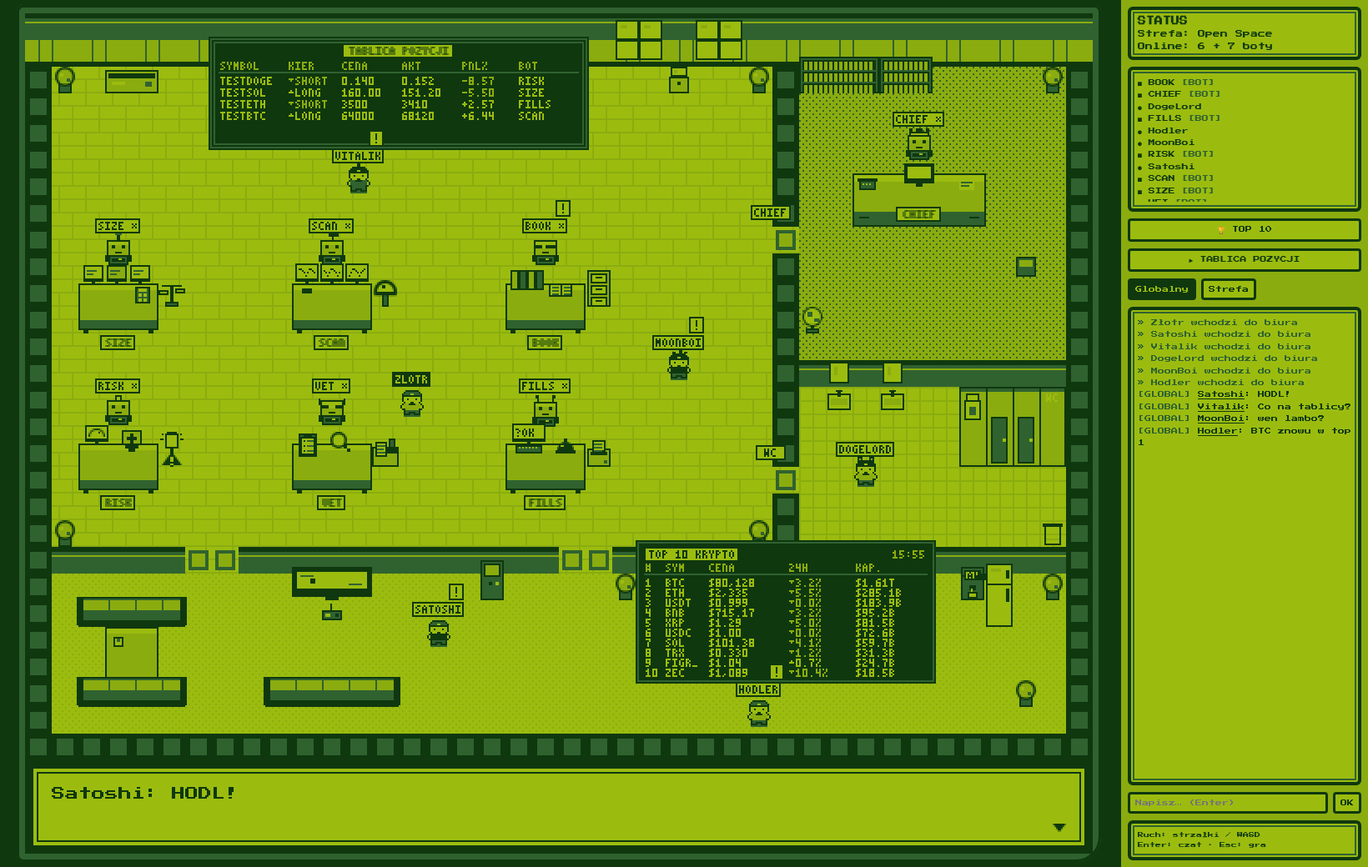
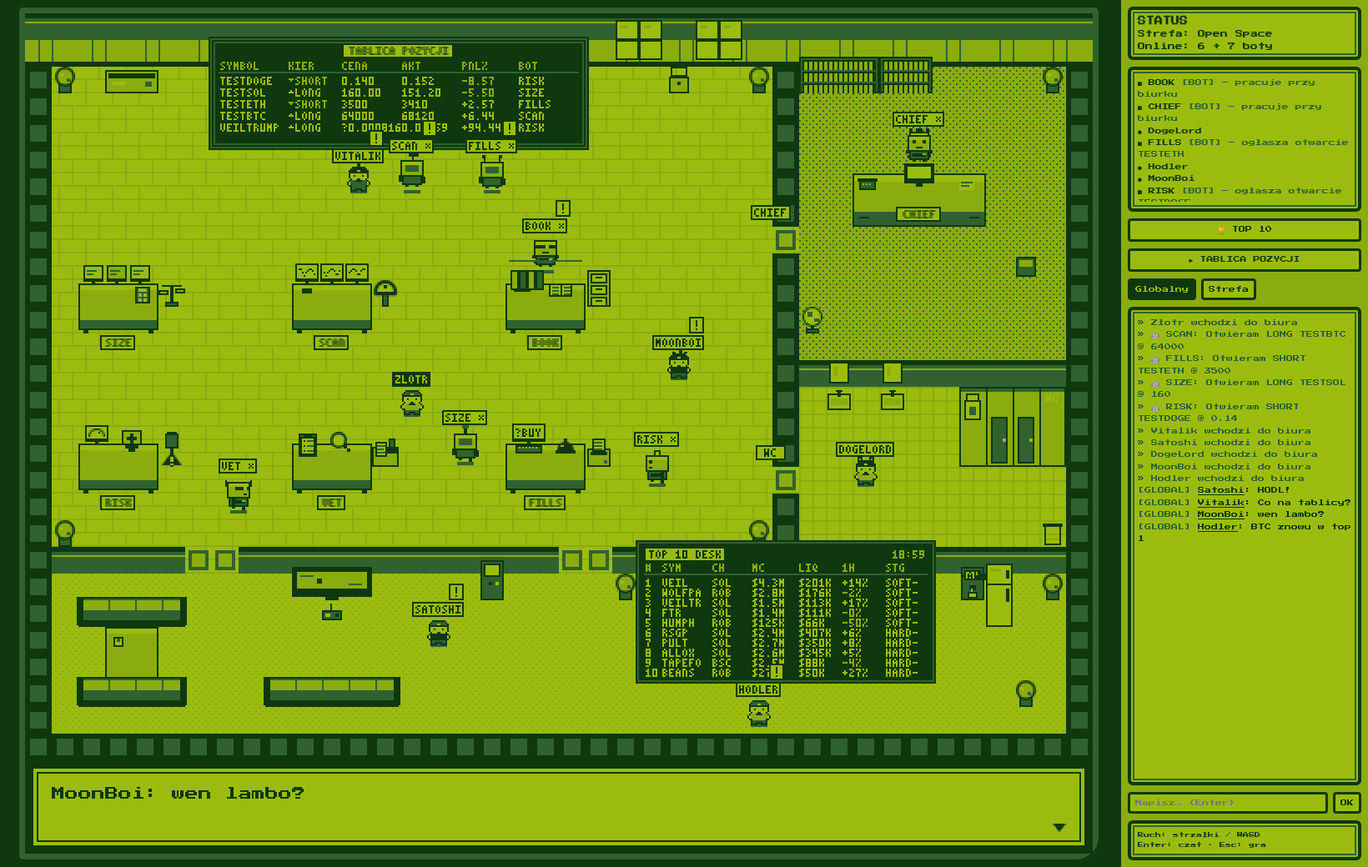
Boty pracują: maszyna stanów, A*, zadania, rozmowy, reakcje na pozycje; /api/bots

diff --git a/public/game.js b/public/game.js
@@ -35,19 +35,31 @@ function drawTrainer(g,x,y,dir,variant,sp,frame){const m=TR[dir]||TR.down;const 
 }
 // robots (8x8 grid at 2px)
 const BOTSHAPE={CHIEF:'crown',SIZE:'square',SCAN:'dish',BOOK:'visor',RISK:'siren',VET:'mono',FILLS:'twin'};
-function drawBot(x,y,p,t){const s=2,bob=Math.round(Math.sin(t/400+p.name.length));y+=bob;const px=(i,j,w,h,c)=>{ctx.fillStyle=C[c];ctx.fillRect(x+i*s,y+j*s,w*s,h*s);};const sh=BOTSHAPE[p.name]||'square';
- px(1,6,6,3,0);px(1.5,6.5,5,2,1);px(2,7,4,1,0);px(2+((t/200|0)%4),7,1,0.5,3); // body + blinking chest LED
- px(0,6,1,2,0);px(7,6,1,2,0);
+function drawBot(x,y,p,t){const s=2,dir=p.dir||'down',walking=p.act=='walk'&&(performance.now()-(p.lastMove||0)<250),typing=p.act=='typing'||p.act=='filing';
+ const bob=walking?((t/160|0)%2):Math.round(Math.sin(t/400+p.name.length));y+=bob;const px=(i,j,w,h,c)=>{ctx.fillStyle=C[c];ctx.fillRect(x+i*s,y+j*s,w*s,h*s);};const sh=BOTSHAPE[p.name]||'square';
+ // legs (walk cycle)
+ if(walking){const f=(t/160|0)%2;px(2,9,1,f?1:0.5,0);px(5,9,1,f?0.5:1,0);}else{px(2,9,1,0.5,0);px(5,9,1,0.5,0);}
+ px(1,6,6,3,0);px(1.5,6.5,5,2,1);
+ if(dir!='up'){px(2,7,4,1,0);px(2+((t/200|0)%4),7,1,0.5,3);}
+ // arms: typing (alternating hands forward) or swinging
+ if(typing){const f=(t/120|0)%2;px(0,6,1,1,0);px(7,6,1,1,0);px(0.5,7+f*0.5,1,1,0);px(6.5,7.5-f*0.5,1,1,0);}
+ else if(dir=='left'||dir=='right'){px(dir=='left'?5:2,6.5,1,2,0);}else{const f=walking&&(t/160|0)%2;px(0,6+(f?0.5:0),1,2,0);px(7,6+(f?0:0.5),1,2,0);}
  px(0.5,1.5,7,5,0);px(1,2,6,4,2);px(1,2,6,1,3); // head
  const blink=(t/150|0)%20==0;const ec=blink?2:0;
- if(sh=='visor'||sh=='mono'){px(1,3,6,1,0);if(sh=='mono')px(3,3,2,1,blink?0:3);else px(2+((t/300|0)%4),3,1,1,3);}else{px(2,3,1,1,ec);px(5,3,1,1,ec);}
- px(3,5,2,0.5,0);
+ if(dir=='up'){px(2,3,4,2,1);}
+ else if(dir=='left'||dir=='right'){const ex=dir=='left'?1.5:5.5;if(sh=='visor'||sh=='mono'){px(dir=='left'?1:3,3,4,1,0);px(ex,3,1,1,3);}else px(ex,3,1,1,ec);px(dir=='left'?1.5:5.5,5,1,0.5,0);}
+ else{if(sh=='visor'||sh=='mono'){px(1,3,6,1,0);if(sh=='mono')px(3,3,2,1,blink?0:3);else px(2+((t/300|0)%4),3,1,1,3);}else{px(2,3,1,1,ec);px(5,3,1,1,ec);}px(3,5,2,0.5,0);}
  if(sh=='crown'){px(1,0.5,6,1,0);px(1,-0.5,1,1,0);px(3,-0.5,2,1,0);px(6,-0.5,1,1,0);px(1.5,1,5,0.5,3);}
  if(sh=='square'){px(3.5,0,1,1.5,0);px(3,-1,2,1,1);}
  if(sh=='dish'){px(4,0.5,0.5,1,0);px(3,-0.5,3,1,0);px(5,-1.5,1,1,(t/300|0)%2?0:3);}
  if(sh=='siren'){px(3,0,2,1.5,0);px(3.5,0.5,1,1,(t/250|0)%2?3:1);}
  if(sh=='mono'){px(0,1,0.5,2,0);px(7.5,1,0.5,2,0);}
- if(sh=='twin'){px(1.5,0,0.5,1.5,0);px(6,0,0.5,1.5,0);px(1,-0.5,1,1,0);px(6,-0.5,1,1,0);}}
+ if(sh=='twin'){px(1.5,0,0.5,1.5,0);px(6,0,0.5,1.5,0);px(1,-0.5,1,1,0);px(6,-0.5,1,1,0);}
+ // carried item
+ const cx=dir=='left'?-3:13,cy=y+12;
+ if(p.carry=='ticket'){box(x+cx,cy,6,7,3);R(x+cx+1,cy+2,4,1,1);R(x+cx+1,cy+4,3,1,1);}
+ if(p.carry=='clip'){box(x+cx,cy-1,6,8,1);R(x+cx+1,cy+1,4,5,3);R(x+cx+2,cy-1,2,1,0);}
+ if(p.carry=='coffee'){box(x+cx,cy+1,5,6,3);R(x+cx+5,cy+3,1,2,0);if((t/300|0)%2)R(x+cx+2,cy-2,1,2,1);}}
 // ---- login UI ----
 const cd=document.getElementById('colors'),sd=document.getElementById('sprites');
 function preview(v,sp,sel){const c=document.createElement('canvas');c.width=20;c.height=22;c.style.width='40px';c.style.height='44px';const g=c.getContext('2d');g.fillStyle=C[3];g.fillRect(0,0,20,22);drawTrainer(g,2,4,'down',v,sp,0);if(sel)c.className='on';return c;}
@@ -65,6 +77,7 @@ const marks={};
 socket.on('init',d=>{me=d.you;players=d.players;for(const p of Object.values(players)){p.rx=p.x;p.ry=p.y;}updOnline();});
 socket.on('playerJoined',p=>{p.rx=p.x;p.ry=p.y;players[p.id]=p;updOnline();});
 socket.on('playerMoved',d=>{const p=players[d.id];if(p){Object.assign(p,d);p.lastMove=performance.now();}});
+socket.on('botState',d=>{const p=players[d.id];if(p){p.status=d.status;p.act=d.act;p.carry=d.carry;if(p.act=='walk')p.lastMove=performance.now();updOnline();}});
 socket.on('playerLeft',id=>{delete players[id];updOnline();});
 socket.on('correct',d=>{const p=players[me];if(p){p.x=p.rx=d.x;p.y=p.ry=d.y;}});
 socket.on('chat',m=>{const log=document.getElementById('log');const el=document.createElement('div');
@@ -73,7 +86,7 @@ socket.on('chat',m=>{const log=document.getElementById('log');const el=document.
  log.appendChild(el);log.scrollTop=1e9;});
 socket.on('bubble',d=>{const p=players[d.id];say(p?p.name:'BOT',d.text,d.id);marks[d.id]=Date.now()+4000;});
 function updOnline(){const ps=Object.values(players);document.getElementById('online').textContent='Online: '+ps.filter(p=>!p.bot).length+' + '+ps.filter(p=>p.bot).length+' boty';
- const pl=document.getElementById('plist');pl.innerHTML='';ps.sort((a,b)=>(a.bot-b.bot)||a.name.localeCompare(b.name)).forEach(p=>{const d=document.createElement('div');d.textContent=(p.bot?'■ ':'● ')+p.name+(p.id==me?' (ty)':'');if(p.bot){const t=document.createElement('span');t.className='b';t.textContent=' [BOT]';d.appendChild(t);}pl.appendChild(d);});}
+ const pl=document.getElementById('plist');pl.innerHTML='';ps.sort((a,b)=>(a.bot-b.bot)||a.name.localeCompare(b.name)).forEach(p=>{const d=document.createElement('div');d.textContent=(p.bot?'■ ':'● ')+p.name+(p.id==me?' (ty)':'');if(p.bot){const t=document.createElement('span');t.className='b';t.textContent=' [BOT]'+(p.status?' – '+p.status.replace(p.name+': ',''):'');d.appendChild(t);}pl.appendChild(d);});}
 const tg=document.getElementById('tg'),tz=document.getElementById('tz');
 tg.onclick=()=>{scope='global';tg.className='on';tz.className='';};tz.onclick=()=>{scope='zone';tz.className='on';tg.className='';};
 const msg=document.getElementById('msg');
@@ -159,7 +172,9 @@ function drawF(f,t){const X=f.x*T,Y=f.y*T,w=f.w*T,h=f.h*T;
  case 'coffee':box(X+1,Y-4,14,20,1);box(X+3,Y-2,10,6,3);tt('KAWA',X+1,Y-1);R(X+6,Y+7,4,3,0);box(X+5,Y+11,6,4,3);if((t/400|0)%2)R(X+7,Y+9,1,2,3);break;
  case 'fridge':box(X,Y-6,w,h+6,3);R(X+1,Y+6,w-2,1,0);R(X+12,Y-2,2,5,0);R(X+12,Y+9,2,8,0);R(X+3,Y-3,6,2,2);break;
  case 'arcadebox':box(X+1,Y-8,14,24,1);box(X+3,Y-6,10,8,0);R(X+4,Y-5,8,6,(t/300|0)%2?2:3);R(X+6,Y+5,2,2,0);R(X+10,Y+5,2,2,3);break;}}
-function deskDecor(L,X,Y,w,t){const mon=(mx,my,mw,mh,anim)=>{box(mx,my,mw,mh,0);R(mx+1,my+1,mw-2,mh-3,anim?2:3);R(mx+mw/2-1,my+mh,2,2,0);};
+function deskDecor(L,X,Y,w,t){const own=players['bot-'+L];if(own&&own.act=='typing'){R(X+2,Y-12,w-4,1,(t/90|0)%3?0:1);R(X+5,Y+6,((t/70|0)%10)+2,1,0);}
+ deskDecor2(L,X,Y,w,t);}
+function deskDecor2(L,X,Y,w,t){const mon=(mx,my,mw,mh,anim)=>{box(mx,my,mw,mh,0);R(mx+1,my+1,mw-2,mh-3,anim?2:3);R(mx+mw/2-1,my+mh,2,2,0);};
  switch(L){
  case 'SIZE':for(let i=0;i<3;i++){mon(X+3+i*14,Y-9,12,10,(t/700|0)%3==i);R(X+5+i*14,Y-6,6,1,1);R(X+5+i*14,Y-4,4,1,1);}box(X+34,Y+4,9,10,1);R(X+36,Y+5,5,2,3);for(let j=0;j<2;j++)for(let i=0;i<2;i++)R(X+36+i*3,Y+8+j*3,2,2,3);break;
  case 'SCAN':for(let i=0;i<3;i++){mon(X+2+i*15,Y-10,14,11,0);ctx.fillStyle=C[0];for(let k=0;k<10;k++)ctx.fillRect(X+4+i*15+k,Y-3-Math.round(Math.abs(Math.sin(k/2+t/500+i))*4),1,1);}R(X+6,Y+5,6,3,0);break;
@@ -175,27 +190,40 @@ function deskDecor(L,X,Y,w,t){const mon=(mx,my,mw,mh,anim)=>{box(mx,my,mw,mh,0);
   ctx.fillStyle=C[0];ctx.beginPath();ctx.arc(X+36,Y+6,5,Math.PI,0);ctx.fill();R(X+30,Y+6,12,2,0);R(X+35,Y-1,2,2,0);ctx.fillStyle=C[3];ctx.fillRect(X+33,Y+3,2,1);break;}}
 // ---- positions board ----
 function fmtP(v){v=+v;return v>=1000?v.toFixed(0):v>=1?v.toFixed(2):v.toPrecision(3);}
-function pnl(p){const c=p.price??p.entry;return (c-p.entry)/p.entry*100*(p.side=='LONG'?1:-1);}
+function pnl(p){const b=p.desk?p.pnlBase:p.entry;if(!b)return NaN;const c=p.price??b;return (c-b)/b*100*(p.side=='LONG'?1:-1);}
+const pctS=v=>isFinite(v)?(v>=0?'+':'')+v.toFixed(2):'-';
 function drawScoreboard(X,Y,w,h,t){box(X-2,Y-2,w+4,h+4,1);box(X,Y,w,h,0);R(X+1,Y+1,w-2,h-2,1);R(X+2,Y+2,w-4,h-4,0);
  const ttl='TABLICA POZYCJI';R(X+w/2-tw(ttl)/2-3,Y+3,tw(ttl)+6,7,3);tt(ttl,X+w/2-tw(ttl)/2,Y+4,0);
  const cols=[5,46,78,114,150,184];['SYMBOL','KIER','CENA','AKT','PNL%','BOT'].forEach((c,i)=>tt(c,X+cols[i],Y+13,2));R(X+4,Y+19,w-8,1,1);
  const ps=Object.values(positions);if(!ps.length){if((t/600|0)%2)tt('BRAK OTWARTYCH POZYCJI',X+w/2-tw('BRAK OTWARTYCH POZYCJI')/2,Y+36,3);return;}
  ps.sort((a,b)=>b.openedAt-a.openedAt).slice(0,6).forEach((p,i)=>{const yy=Y+22+i*7,pl=pnl(p);
-  [p.symbol.slice(0,10),(p.side=='LONG'?'▲':'▼')+p.side,fmtP(p.entry),fmtP(p.price??p.entry),(pl>=0?'+':'')+pl.toFixed(2),p.bot].forEach((v,j)=>tt(String(v),X+cols[j],yy,j==1&&p.side=='SHORT'||j==4&&pl<0?2:3));});
+  [p.symbol.slice(0,10),(p.side=='LONG'?'▲':'▼')+p.side,p.entry!=null?fmtP(p.entry):(p.ref!=null?'~'+fmtP(p.ref):'-'),p.price!=null?fmtP(p.price):'-',pctS(pl),p.bot].forEach((v,j)=>tt(String(v),X+cols[j],yy,j==1&&p.side=='SHORT'||j==4&&pl<0?2:3));});
  if(ps.length>6)tt('+'+(ps.length-6)+' WIECEJ',X+w-44,Y+h-7,2);}
 // ---- Top 10 Krypto ----
 let top10={items:[]};
 const fmtCap=v=>!isFinite(v)||v<=0?'-':v>=1e12?'$'+(v/1e12).toFixed(2)+'T':v>=1e9?'$'+(v/1e9).toFixed(1)+'B':'$'+(v/1e6).toFixed(0)+'M';
 const fmtUsd=v=>'$'+(v>=1000?Math.round(v).toLocaleString('en-US'):v>=1?v.toFixed(2):v.toPrecision(3));
 const hhmm=ts=>ts?new Date(ts).toLocaleTimeString('pl-PL',{hour:'2-digit',minute:'2-digit'}):'--:--';
-function drawTop10(X,Y,w,h,t){box(X-2,Y-2,w+4,h+4,1);box(X,Y,w,h,0);R(X+2,Y+2,w-4,h-4,0);
+function drawTop10(X,Y,w,h,t){if(top10.source=='desk')return drawDeskTop10(X,Y,w,h,t);box(X-2,Y-2,w+4,h+4,1);box(X,Y,w,h,0);R(X+2,Y+2,w-4,h-4,0);
  const ttl='TOP 10 KRYPTO';R(X+4,Y+3,tw(ttl)+4,7,3);tt(ttl,X+6,Y+4,0);tt(hhmm(top10.updatedAt),X+w-24,Y+4,2);
  const cols=[4,16,42,90,130];['#','SYM','CENA','24H','KAP.'].forEach((c,i)=>tt(c,X+cols[i],Y+12,2));R(X+3,Y+18,w-6,1,1);
  if(!top10.items.length){if((t/600|0)%2)tt('BRAK DANYCH',X+w/2-tw('BRAK DANYCH')/2,Y+40,3);return;}
  top10.items.slice(0,10).forEach((c,i)=>{const yy=Y+21+i*6,up=(c.change24h||0)>=0;
   [String(c.rank||i+1),c.symbol.slice(0,5),fmtUsd(c.price),(up?'▲':'▼')+Math.abs(c.change24h||0).toFixed(1)+'%',fmtCap(c.marketCap)].forEach((v,j)=>tt(v,X+cols[j],yy,j==3&&!up?2:3));});}
+const fmtK=v=>!isFinite(v)||v==null?'-':v>=1e6?'$'+(v/1e6).toFixed(1)+'M':'$'+(v/1e3).toFixed(0)+'K';
+const STG={order:'ORDER',order_blocked:'BLOCK',soft_pass:'SOFT+',soft_reject:'SOFT-',soft_missing:'SOFT?',hard_reject:'HARD-',not_enriched:'HARD~',cheap_reject:'CHEAP-'};
+function drawDeskTop10(X,Y,w,h,t){box(X-2,Y-2,w+4,h+4,1);box(X,Y,w,h,0);R(X+2,Y+2,w-4,h-4,0);
+ const ttl='TOP 10 DESK';R(X+4,Y+3,tw(ttl)+4,7,3);tt(ttl,X+6,Y+4,0);tt(hhmm(top10.updatedAt),X+w-24,Y+4,2);
+ const cols=[4,14,44,68,96,122,148];['#','SYM','CH','MC','LIQ','1H','STG'].forEach((c,i)=>tt(c,X+cols[i],Y+12,2));R(X+3,Y+18,w-6,1,1);
+ top10.items.slice(0,10).forEach((c,i)=>{const yy=Y+21+i*6,up=(c.change1h||0)>=0;
+  [String(c.rank),c.symbol.slice(0,6),String(c.chain).slice(0,3).toUpperCase(),fmtK(c.marketCap),fmtK(c.liquidity),c.change1h==null?'-':(up?'+':'')+c.change1h.toFixed(0)+'%',STG[c.stage]||c.stage].forEach((v,j)=>tt(v,X+cols[j],yy,j==5&&!up?2:3));});}
 const t10=document.getElementById('top10');
-function renderTop10(){document.getElementById('t10upd').textContent='ostatnia aktualizacja: '+(top10.updatedAt?new Date(top10.updatedAt).toLocaleString('pl-PL'):'—')+(top10.source?' ('+top10.source+')':'')+(top10.error&&top10.items.length?' · błąd odświeżania, pokazuję ostatnie dane':'');
+function renderTop10(){const hd=document.querySelector('#top10 thead tr'),ttl=document.querySelector('#top10 .bh span');
+ if(top10.source=='desk'){ttl.textContent='🏆 TOP 10 DESK (ostatni cykl)';hd.innerHTML='<th>#</th><th>Ticker</th><th>Chain</th><th>MC</th><th>Płynność</th><th>1h %</th><th>Etap / powód</th>';
+  document.getElementById('t10upd').textContent='cykl: '+new Date(top10.updatedAt).toLocaleString('pl-PL')+' · '+(top10.rule||'');const tb=document.getElementById('t10body');tb.innerHTML='';
+  for(const c of top10.items){const tr=document.createElement('tr');const up=(c.change1h||0)>=0;
+   [c.rank,c.symbol,c.chain,fmtK(c.marketCap),fmtK(c.liquidity),c.change1h==null?'-':(up?'▲ ':'▼ ')+Math.abs(c.change1h).toFixed(2)+'%',(STG[c.stage]||c.stage)+(c.reason?' · '+c.reason:'')].forEach((v,i)=>{const td=document.createElement('td');td.textContent=v;if(i==5&&c.change1h!=null)td.className=up?'pos':'neg';if(i==6)td.style.whiteSpace='normal';tr.appendChild(td);});tb.appendChild(tr);}return;}
+ ttl.textContent='🏆 TOP 10 KRYPTO';hd.innerHTML='<th>#</th><th>Symbol / nazwa</th><th>Cena USD</th><th>24h %</th><th>Kapitalizacja</th>';document.getElementById('t10upd').textContent='ostatnia aktualizacja: '+(top10.updatedAt?new Date(top10.updatedAt).toLocaleString('pl-PL'):'—')+(top10.source?' ('+top10.source+')':'')+(top10.error&&top10.items.length?' · błąd odświeżania, pokazuję ostatnie dane':'');
  const tb=document.getElementById('t10body');tb.innerHTML='';if(!top10.items.length){tb.innerHTML='<tr><td colspan="5" style="text-align:center">Brak danych</td></tr>';return;}
  for(const c of top10.items){const tr=document.createElement('tr');const up=(c.change24h||0)>=0;
   [c.rank,c.symbol+' · '+c.name,fmtUsd(c.price),(up?'▲ ':'▼ ')+Math.abs(c.change24h||0).toFixed(2)+'%',fmtCap(c.marketCap)].forEach((v,i)=>{const td=document.createElement('td');td.textContent=v;if(i==3)td.className=up?'pos':'neg';tr.appendChild(td);});tb.appendChild(tr);}}
@@ -209,13 +237,14 @@ const panel=document.getElementById('board');
 function renderTable(){const tb=document.getElementById('btbody');tb.innerHTML='';const ps=Object.values(positions).sort((a,b)=>b.openedAt-a.openedAt);
  if(!ps.length){tb.innerHTML='<tr><td colspan="8" style="text-align:center">Brak otwartych pozycji</td></tr>';return;}
  for(const p of ps){const tr=document.createElement('tr');const pl=pnl(p);tr.className=p.side=='LONG'?'long':'short';
-  [p.symbol,(p.side=='LONG'?'▲ ':'▼ ')+p.side,p.size,fmtP(p.entry),fmtP(p.price??p.entry)+(p.priceSource=='live'?' •':''),(pl>=0?'+':'')+pl.toFixed(2)+'%',p.bot,new Date(p.openedAt).toLocaleString('pl-PL',{hour:'2-digit',minute:'2-digit',day:'2-digit',month:'2-digit'})]
+  [p.symbol+(p.desk?' ('+p.chain+', shadow)':''),(p.side=='LONG'?'▲ ':'▼ ')+p.side,p.desk?'$'+p.size:p.size,p.entry!=null?fmtP(p.entry):(p.desk?'brak (ref '+(p.ref!=null?fmtP(p.ref):'-')+')':'-'),(p.price!=null?fmtP(p.price):'-')+(p.priceSource=='live'?' •':'')+(p.desk&&p.priceTs?' @'+new Date(p.priceTs).toLocaleTimeString('pl-PL',{hour:'2-digit',minute:'2-digit'}):''),pctS(pl)+'%'+(p.desk&&p.entry==null?' vs ref':''),p.desk?'RISK: '+(p.risk||''):p.bot,new Date(p.openedAt).toLocaleString('pl-PL',{hour:'2-digit',minute:'2-digit',day:'2-digit',month:'2-digit'})]
   .forEach((v,i)=>{const td=document.createElement('td');td.textContent=v;if(i==5)td.className=pl>=0?'pos':'neg';if(p.note&&i==0)td.title=p.note;tr.appendChild(td);});tb.appendChild(tr);}}
 document.getElementById('tb').onclick=()=>panel.classList.toggle('show');document.getElementById('bclose').onclick=()=>panel.classList.remove('show');
 // ---- players ----
 function drawPlayer(p,t){p.rx+=(p.x-p.rx)*.3;p.ry+=(p.y-p.ry)*.3;const x=Math.round(p.rx)-8,y=Math.round(p.ry)-12;
- if(p.bot){drawBot(x,y-6,p,t);}else{const moving=p.id==me?p.moving:(performance.now()-(p.lastMove||0)<200);R(x+3,y+14,10,2,1);drawTrainer(ctx,x,y,p.dir||'down',Math.max(0,COLORS.indexOf(p.color)),p.sprite|0,moving&&(t/160|0)%2);}
+ if(p.bot){R(x+3,y+14,10,2,1);drawBot(x,y-6,p,t);}else{const moving=p.id==me?p.moving:(performance.now()-(p.lastMove||0)<200);R(x+3,y+14,10,2,1);drawTrainer(ctx,x,y,p.dir||'down',Math.max(0,COLORS.indexOf(p.color)),p.sprite|0,moving&&(t/160|0)%2);}
  tag(p.name+(p.bot?' *':''),Math.round(p.rx),y-(p.bot?17:11),p.id==me);
+ if(p.bot&&p.status){const m=players[me];const near=(m&&Math.hypot(m.x-p.x,m.y-p.y)<36)||(mouse&&Math.abs(mouse.x-p.rx)<10&&Math.abs(mouse.y-(p.ry-4))<14);if(near)statusTags.push([p.status,Math.round(p.rx),y+20]);}
  if(marks[p.id]>Date.now()){const bx=Math.round(p.rx)+6,by=y-(p.bot?28:22);box(bx,by,9,10,3);R(bx+4,by+2,1,4,0);R(bx+4,by+7,1,1,0);}}
 function drawDialog(t){const Y=MAPH,h=cv.height-MAPH;R(0,Y,cv.width,h,0);box(4,Y+4,cv.width-8,h-8,3);R(7,Y+7,cv.width-14,h-14,0);R(8,Y+8,cv.width-16,h-16,3);
  ctx.font='8px "Press Start 2P"';ctx.fillStyle=C[0];
@@ -224,12 +253,15 @@ function drawDialog(t){const Y=MAPH,h=cv.height-MAPH;R(0,Y,cv.width,h,0);box(4,Y
  const full=dcur.who+': '+dcur.text;const n=Math.min(full.length,Math.floor((t-dcur.start)/30));if(n>=full.length&&!dcur.done)dcur.done=t;
  const s=full.slice(0,n);const per=74;ctx.fillText(s.slice(0,per),16,Y+24);if(s.length>per)ctx.fillText(s.slice(per,per*2),16,Y+40);
  if(dcur.done&&(t/400|0)%2){ctx.fillStyle=C[0];ctx.beginPath();ctx.moveTo(cv.width-24,Y+38);ctx.lineTo(cv.width-16,Y+38);ctx.lineTo(cv.width-20,Y+43);ctx.fill();}}
+let mouse=null,statusTags=[];
+cv.addEventListener('mousemove',e=>{const r=cv.getBoundingClientRect();mouse={x:(e.clientX-r.left)*cv.width/r.width,y:(e.clientY-r.top)*cv.height/r.height};});cv.addEventListener('mouseleave',()=>mouse=null);
 let last=performance.now();
 function loop(t){const dt=Math.min(.05,(t-last)/1000);last=t;update(dt);
  if(!mapCache&&document.fonts)buildMap();ctx.drawImage(mapCache,0,0);
  // draw furniture and players depth-sorted by bottom edge
  const items=furniture.map(f=>({y:(f.y+f.h)*T,f})).concat(Object.values(players).map(p=>({y:p.ry+4,p})));items.sort((a,b)=>a.y-b.y);
  for(const it of items){if(it.f)drawF(it.f,t);else drawPlayer(it.p,t);}
+ for(const [st,sx,sy] of statusTags)tag(st,Math.max(tw(st)/2+4,Math.min(cv.width-tw(st)/2-4,sx)),Math.min(sy,MAPH-10),true);statusTags=[];
  drawDialog(t);
  const p=players[me];if(p){const z=zoneAt(p.x,p.y);document.getElementById('zone').textContent='Strefa: '+ZN[z];if(z!=lastZone){if(z=='board')panel.classList.add('show');else if(lastZone=='board')panel.classList.remove('show');if(z=='top10')t10.classList.add('show');else if(lastZone=='top10')t10.classList.remove('show');lastZone=z;}}
  requestAnimationFrame(loop);}

diff --git a/bots.js b/bots.js
@@ -1,0 +1,85 @@
+// Server-driven NPC bot behaviour: state machine + A* on the tile grid.
+module.exports=function createBots({io,players,MAP,BOT_CFG}){
+const FAST=process.env.BOT_FAST==='1',SP=FAST?4:1;
+const T=MAP.T,ms=v=>v/SP,rnd=a=>a[Math.random()*a.length|0],chance=p=>Math.random()<p;
+const walk=(x,y)=>y>=0&&x>=0&&y<MAP.H&&x<MAP.W&&MAP.solid[y][x]===0;
+function astar(s,g,avoid){if(!walk(...g))return null;const K=(x,y)=>y*MAP.W+x,open=[[...s,0,Math.abs(s[0]-g[0])+Math.abs(s[1]-g[1])]],gs=new Map([[K(...s),0]]),prev=new Map(),closed=new Set();
+ while(open.length){let bi=0;for(let i=1;i<open.length;i++)if(open[i][3]<open[bi][3])bi=i;const [x,y,gc]=open.splice(bi,1)[0];const k=K(x,y);if(closed.has(k))continue;closed.add(k);
+  if(x==g[0]&&y==g[1]){const out=[];let c=k;while(c!==undefined){out.unshift([c%MAP.W,c/MAP.W|0]);c=prev.get(c);}out.shift();return out;}
+  for(const [dx,dy] of [[1,0],[-1,0],[0,1],[0,-1]]){const nx=x+dx,ny=y+dy,nk=K(nx,ny);if(!walk(nx,ny)||closed.has(nk)||(avoid&&avoid.has(nk)&&!(nx==g[0]&&ny==g[1])))continue;
+   const ng=gc+1;if(ng<(gs.get(nk)??1e9)){gs.set(nk,ng);prev.set(nk,k);open.push([nx,ny,ng,ng+Math.abs(nx-g[0])+Math.abs(ny-g[1])]);}}}return null;}
+const deskOf=n=>MAP.furniture.find(f=>f.type=='botdesk'&&f.label==n);
+const deskFront=n=>{const d=deskOf(n);return [d.x+1,d.y+2];};
+const SPOT={board:()=>[9+(Math.random()*10|0),6],top10:()=>[24+(Math.random()*9|0),25],cabinet:()=>[22,10],chief:()=>[32+(Math.random()*3|0),8],
+ coffee:()=>[35,22],fridge:()=>[36,23],wc:()=>[36,17],walk:()=>rnd([[13,13],[8,13],[22,13],[16,18],[24,8]])};
+const CHATS=[[[14,23],[16,23]],[[16,13],[18,13]],[[30,26],[32,26]],[[4,18],[6,18]]];
+const LINES={
+ CHIEF:{chat:['Jak wyniki?','Trzymamy dyscyplinę.','Dobra robota.','Plan na dziś aktualny.'],report:['Dzięki, notuję.','OK, działaj dalej.','Pilnuj limitów.'],walk:['Jak idzie, zespole?','Obchód biura...']},
+ SIZE:{chat:['Max 2% na pozycję.','Kelly mówi: mniej.','Przeliczyłem wielkości.'],report:['Wielkości przeliczone.','Ekspozycja w normie.'],board:['Przeliczam wielkości...','Sizing się zgadza.']},
+ SCAN:{chat:['Wolumen rośnie!','Mam nowy sygnał.','Rynek się budzi.'],report:['3 nowe setupy.','Skan zakończony.'],board:['Sygnały zgodne z tablicą.','Sprawdzam pozycje...'],top10:['Top 10 bez zmian.','BTC dalej lider.']},
+ BOOK:{chat:['Wszystko zaksięgowane.','Saldo się zgadza.','PnL zapisany.'],report:['Księgi aktualne.','Raport dzienny gotowy.'],file:['Zarchiwizowane.','Segregator pełny!'],recv:['Przyjąłem, księguję.','Dzięki, wpisuję.']},
+ RISK:{chat:['Uwaga na dźwignię.','Stop-lossy ustawione?','Ryzyko pod kontrolą.'],report:['Ekspozycja OK.','Limity zachowane.'],inspect:['Limity OK.','Za duża dźwignia!','Stop-loss jest. OK.','Wszystko w normie.']},
+ VET:{chat:['Ten projekt to scam.','Audyt czysty.','Sprawdzam zespół.'],report:['Projekt zweryfikowany.','Dwie czerwone flagi.'],inspect:['Checklista OK ✔','Brakuje podpisu.','Zweryfikowane.']},
+ FILLS:{chat:['Fill bez slippage.','Zlecenia poszły.','Egzekucja OK.'],report:['Wszystkie fille gotowe.','Zero odrzuceń.'],ticket:['Nowe fille do zaksięgowania!','Bilety z egzekucji!']}};
+const B={};
+for(const d of MAP.BOT_DESKS){const p=players['bot-'+d.name];const home=[Math.floor(d.x/T),Math.floor(d.y/T)];
+ Object.assign(p,{x:home[0]*T+8,y:home[1]*T+8,dir:d.name=='CHIEF'?'down':'down',status:d.name+': pracuje przy biurku',act:'typing',carry:null});
+ B[d.name]={name:d.name,p,home,plan:[],path:[],step:null,waitUntil:0,blockedSince:0,idleSince:Date.now()-Math.random()*20000,event:false};}
+const tileOf=b=>[Math.floor(b.p.x/T),Math.floor(b.p.y/T)];
+const atHome=b=>{const [x,y]=tileOf(b);return x==b.home[0]&&y==b.home[1]&&!b.path.length;};
+const away=()=>Object.values(B).filter(b=>b.plan.length||b.step||!atHome(b)).length;
+function setState(b,o){let ch=false;for(const k in o)if(b.p[k]!==o[k]){b.p[k]=o[k];ch=true;}if(ch)io.emit('botState',{id:b.p.id,status:b.p.status,act:b.p.act,carry:b.p.carry});}
+function say(b,text){io.emit('bubble',{id:b.p.id,text});}
+function emitMove(b){b.p.zone=MAP.zoneAt(b.p.x,b.p.y);io.emit('playerMoved',{id:b.p.id,x:Math.round(b.p.x*10)/10,y:Math.round(b.p.y*10)/10,dir:b.p.dir,zone:b.p.zone});}
+// plan helpers
+const go=(spot,status,o={})=>({go:spot,status,...o}),wait=(t,o={})=>({wait:t,...o}),home=()=>({go:'home'});
+function start(b,plan){b.plan=plan.concat([home()]);b.step=null;b.idleSince=Date.now();}
+function errand(b){const n=b.name,L=LINES[n],others=Object.keys(B).filter(k=>k!=n&&k!='CHIEF');const r=Math.random();
+ if(n=='CHIEF'){if(r<.6)return start(b,[go(SPOT.walk(),'CHIEF: obchód Open Space'),wait(3000,{face:'down',say:rnd(L.walk)}),go(SPOT.walk(),'CHIEF: obchód Open Space'),wait(2000,{face:'up'})]);
+  return start(b,[go(SPOT.coffee(),'CHIEF: przerwa na kawę'),wait(4000,{face:'up',act:'coffee',carry:'coffee'})]);}
+ if(r<.12)return start(b,[go(SPOT.coffee(),n+': przerwa na kawę'),wait(3500,{face:'up',act:'coffee'}),wait(1500,{carry:'coffee',say:'Kawa ☕'})]);
+ if(r<.20)return start(b,[go(SPOT.wc(),n+': wyszedł do łazienki'),wait(5000,{face:'up',act:'wc'})]);
+ if(r<.32)return start(b,[go(SPOT.chief(),n+': raportuje do CHIEF'),wait(2500,{face:'up',say:rnd(L.report)}),wait(2500,{sayOther:['CHIEF',rnd(LINES.CHIEF.report)]})]);
+ if(r<.42){const partner=Object.values(B).find(o=>o!=b&&o.name!='CHIEF'&&!o.plan.length&&!o.step&&atHome(o)&&Date.now()-o.idleSince>ms(8000));if(partner&&away()<2)return chat(b,partner);}
+ switch(n){
+  case 'SCAN':return chance(.5)?start(b,[go(SPOT.board(),'SCAN: sprawdza Tablicę Pozycji'),wait(3000,{face:'up',say:rnd(L.board)})]):start(b,[go(SPOT.top10(),'SCAN: sprawdza Top 10 Krypto'),wait(3000,{face:'up',say:rnd(L.top10)})]);
+  case 'SIZE':return start(b,[go(SPOT.board(),'SIZE: przelicza wielkości przy tablicy'),wait(3500,{face:'up',say:rnd(L.board)})]);
+  case 'RISK':{const [a,c]=[rnd(others),rnd(others)];return start(b,[go(deskFront(a),'RISK: sprawdza biurko '+a),wait(2500,{face:'up',say:rnd(L.inspect)}),...(c!=a?[go(deskFront(c),'RISK: sprawdza biurko '+c),wait(2500,{face:'up',say:rnd(L.inspect)})]:[])]);}
+  case 'VET':{const a=rnd(others);return start(b,[go(deskFront(a),'VET: weryfikuje biurko '+a,{carry:'clip'}),wait(3000,{face:'up',say:rnd(L.inspect),carry:'clip'})]);}
+  case 'FILLS':return start(b,[go(deskFront('BOOK'),'FILLS: niesie bilety do BOOK',{carry:'ticket'}),wait(2000,{face:'up',say:rnd(L.ticket),carry:'ticket'}),wait(2000,{carry:null,sayOther:['BOOK',rnd(LINES.BOOK.recv)]})]);
+  case 'BOOK':return start(b,[go(SPOT.cabinet(),'BOOK: odkłada dokumenty do szafy',{carry:'ticket'}),wait(3500,{face:'left',act:'filing',carry:null,say:rnd(L.file)})]);}}
+function chat(a,b){const [sa,sb]=rnd(CHATS);const c={arrived:new Set(),lines:[]};for(let i=0;i<4;i++){const w=i%2?b:a;c.lines.push([w,rnd(LINES[w.name].chat)]);}
+ const stA=`${a.name}: rozmawia z ${b.name}`,stB=`${b.name}: rozmawia z ${a.name}`;
+ start(a,[go(sa,stA),{sync:c,face:'right',status:stA},wait(4*2500+500,{face:'right',dialog:c})]);start(b,[go(sb,stB),{sync:c,face:'left',status:stB},wait(4*2500+500,{face:'left'})]);}
+function onPosition(kind,pos){const b=B[pos.bot];if(!b)return;const txt=kind=='open'?`Na tablicy: ${pos.side} ${pos.symbol}!`:`Zamknięte: ${pos.symbol}.`;
+ b.event=true;start(b,[go(SPOT.board(),`${b.name}: ogłasza ${kind=='open'?'otwarcie':'zamknięcie'} ${pos.symbol}`),wait(3000,{face:'up',say:txt})]);
+ const r=B.RISK;if(r&&r!==b){say(r,kind=='open'?`Sprawdzam ekspozycję: ${pos.symbol}`:`Ryzyko ${pos.symbol} zdjęte.`);
+  if(!r.plan.length&&away()<3){r.event=true;start(r,[go(SPOT.board(),`RISK: sprawdza ryzyko ${pos.symbol}`),wait(2500,{face:'up',say:'Limity OK po zmianie.'})]);}}}
+// tick
+const occ=b=>Object.values(B).filter(o=>o!==b).flatMap(o=>{const t=[tileOf(o)];if(o.path[0])t.push(o.path[0]);return t;});
+function tick(dt){const now=Date.now();for(const b of Object.values(B)){
+ if(!b.step&&b.plan.length){b.step=b.plan.shift();const s=b.step;
+  if(s.go){const tgt=s.go=='home'?b.home:s.go;b.path=astar(tileOf(b),tgt)||[];b.target=tgt;setState(b,{status:s.go=='home'?b.name+': wraca do biurka':s.status,act:'walk',carry:s.carry??(s.go=='home'?(b.p.carry=='coffee'?'coffee':null):b.p.carry)});}
+  else if(s.wait!=null){b.waitUntil=now+ms(s.wait);if(s.face)b.p.dir=s.face;emitMove(b);setState(b,{act:s.act||'idle',carry:s.carry!==undefined?s.carry:b.p.carry,...(s.status?{status:s.status}:{})});
+   if(s.say)say(b,s.say);if(s.sayOther&&B[s.sayOther[0]])say(B[s.sayOther[0]],s.sayOther[1]);
+   if(s.dialog)s.dialog.lines.forEach(([w,l],i)=>setTimeout(()=>say(w,l),ms(i*2500)));}
+  else if(s.sync){s.sync.arrived.add(b.name);b.syncStart=now;if(s.face)b.p.dir=s.face;emitMove(b);setState(b,{act:'idle'});}}
+ const s=b.step;if(!s)continue;
+ if(s.go){if(!b.path.length){b.step=null;if(s.go=='home'){b.p.dir='down';emitMove(b);b.event=false;b.idleSince=now;setState(b,{status:b.name+': pracuje przy biurku',act:'typing',carry:null});}continue;}
+  const [nx,ny]=b.path[0],tx=nx*T+8,ty=ny*T+8;const [cx,cy]=tileOf(b);
+  if((nx!=cx||ny!=cy)&&occ(b).some(([ox,oy])=>ox==nx&&oy==ny)){if(!b.blockedSince)b.blockedSince=now;const w=now-b.blockedSince;
+   if(w>ms(1200)&&!b.repathed){b.repathed=true;const av=new Set(occ(b).map(([x,y])=>y*MAP.W+x));const np=astar([cx,cy],b.target,av);if(np&&np.length)b.path=np;continue;}
+   if(w<ms(4000))continue;}
+  b.repathed=false;
+  b.blockedSince=0;const v=48*SP*dt;const dx=tx-b.p.x,dy=ty-b.p.y,d=Math.hypot(dx,dy);
+  b.p.dir=Math.abs(dx)>Math.abs(dy)?(dx<0?'left':'right'):(dy<0?'up':'down');
+  if(d<=v){b.p.x=tx;b.p.y=ty;b.path.shift();}else{b.p.x+=dx/d*v;b.p.y+=dy/d*v;}emitMove(b);}
+ else if(s.wait!=null){if(now>=b.waitUntil)b.step=null;}
+ else if(s.sync){if(s.sync.arrived.size>=2||now-b.syncStart>ms(20000))b.step=null;}}}
+let last=Date.now();setInterval(()=>{const n=Date.now();tick(Math.min(.3,(n-last)/1000));last=n;},100);
+// scheduler
+setInterval(()=>{const idle=Object.values(B).filter(b=>!b.plan.length&&!b.step&&atHome(b)&&Date.now()-b.idleSince>ms(15000));
+ if(!idle.length||away()>=2||!chance(FAST?.8:.35))return;errand(rnd(idle));},ms(3000));
+// desk chatter: thinking bubbles / role lines for bots at desks
+setInterval(()=>{const at=Object.values(B).filter(b=>atHome(b)&&!b.step);if(!at.length)return;const b=rnd(at);say(b,chance(.4)?'...':rnd(BOT_CFG[b.name].lines));},ms(6000));
+return {onPosition,list:()=>Object.values(B).map(b=>({name:b.name,x:b.p.x,y:b.p.y,tile:tileOf(b),home:b.home,atDesk:atHome(b)&&!b.step&&!b.plan.length,status:b.p.status,act:b.p.act,carry:b.p.carry,zone:MAP.zoneAt(b.p.x,b.p.y)})),walk,errandFor:n=>errand(B[n])};};

diff --git a/server.js b/server.js
@@ -15,7 +15,6 @@ const BOT_CFG={CHIEF:{color:'#ff3b3b',lines:['Koordynuję zespół...','Odprawa 
  VET:{color:'#b026ff',lines:['Weryfikuję projekt...','Audyt kontraktu...','To wygląda na scam 🚩','Zespół zweryfikowany.']},
  FILLS:{color:'#ff2bd6',lines:['Realizuję zlecenia...','Fill po 68 012 $','Slippage minimalny.','Zlecenie wypełnione ✔']}};
 for(const b of MAP.BOT_DESKS){const c=BOT_CFG[b.name];players['bot-'+b.name]={id:'bot-'+b.name,name:b.name,color:c.color,sprite:0,bot:true,x:b.x,y:b.y,dir:'down',zone:MAP.zoneAt(b.x,b.y)};}
-setInterval(()=>{const ids=Object.keys(BOT_CFG);const n=ids[Math.random()*ids.length|0];const l=BOT_CFG[n].lines;io.emit('bubble',{id:'bot-'+n,text:l[Math.random()*l.length|0]});},4000);
 // ---- Tablica Pozycji: API dla botów ----
 const fs=require('fs'),crypto=require('crypto');
 const POS_FILE=process.env.POSITIONS_FILE||path.join(__dirname,'positions.json'),TOKEN_FILE=path.join(__dirname,'.bot-token');
@@ -26,12 +25,14 @@ if(!BOT_TOKEN){try{BOT_TOKEN=fs.readFileSync(TOKEN_FILE,'utf8').trim();}catch{}
 let positions={};try{positions=JSON.parse(fs.readFileSync(POS_FILE,'utf8'))||{};}catch{}
 const save=()=>{try{fs.writeFileSync(POS_FILE+'.tmp',JSON.stringify(positions,null,1));fs.renameSync(POS_FILE+'.tmp',POS_FILE);}catch(e){console.error('Zapis positions.json nieudany:',e.message);}};
 const BOT_NAMES=Object.keys(BOT_CFG);
+const bots=require('./bots.js')({io,players,MAP,BOT_CFG});
+app.get('/api/bots',(q,r)=>r.json(bots.list()));
 function auth(q,r,n){const h=q.get('authorization')||'';const t=h.startsWith('Bearer ')?h.slice(7):'';
   const a=Buffer.from(t),b=Buffer.from(BOT_TOKEN);if(a.length!==b.length||!crypto.timingSafeEqual(a,b))return r.status(401).json({error:'Brak autoryzacji'});n();}
 const num=v=>typeof v==='number'?v:(typeof v==='string'&&v.trim()!==''?Number(v):NaN);
 const pos=v=>{const x=num(v);return isFinite(x)&&x>0&&x<1e12?x:null;};
 function botSay(bot,text){io.emit('bubble',{id:'bot-'+bot,text});io.emit('chat',{system:true,text:`🤖 ${bot}: ${text}`,scope:'global',ts:Date.now()});}
-app.get('/api/positions',(q,r)=>r.json(Object.values(positions)));
+app.get('/api/positions',(q,r)=>r.json(allPositions()));
 app.post('/api/positions',auth,(q,r)=>{const b=q.body||{};const e=[];
   const bot=String(b.bot||'').toUpperCase();if(!BOT_NAMES.includes(bot))e.push('bot: jeden z '+BOT_NAMES.join(','));
   const symbol=String(b.symbol||'').toUpperCase();if(!/^[A-Z0-9]{2,20}$/.test(symbol))e.push('symbol: 2-20 znaków A-Z0-9');
@@ -43,14 +44,14 @@ app.post('/api/positions',auth,(q,r)=>{const b=q.body||{};const e=[];
   const id=b.id!=null?String(b.id):crypto.randomBytes(6).toString('hex');const old=positions[id];
   const p={id,bot,symbol,side,size,entry,price:price??old?.price??null,priceSource:price!=null?'bot':(old?.priceSource||null),note:b.note?String(b.note).replace(/[<>]/g,'').slice(0,140):(old?.note||''),openedAt:old?.openedAt||Date.now(),updatedAt:Date.now()};
   positions[id]=p;save();io.emit('position',p);
-  if(!old)botSay(bot,`Otwieram ${side} ${symbol} @ ${entry}`);r.status(old?200:201).json(p);});
+  if(!old){botSay(bot,`Otwieram ${side} ${symbol} @ ${entry}`);bots.onPosition('open',p);}r.status(old?200:201).json(p);});
 app.patch('/api/positions/:id',auth,(q,r)=>{const p=positions[q.params.id];if(!p)return r.status(404).json({error:'Nie znaleziono pozycji'});const b=q.body||{};const e=[];
   if(b.price!=null&&pos(b.price)==null)e.push('price: liczba > 0');if(b.size!=null&&pos(b.size)==null)e.push('size: liczba > 0');
   if(b.price==null&&b.size==null&&b.note==null)e.push('podaj price, size lub note');if(e.length)return r.status(400).json({error:'Błędne dane',details:e});
   if(b.price!=null){p.price=pos(b.price);p.priceSource='bot';}if(b.size!=null)p.size=pos(b.size);if(b.note!=null)p.note=String(b.note).replace(/[<>]/g,'').slice(0,140);
   p.updatedAt=Date.now();save();io.emit('position',p);r.json(p);});
 function close(q,r){const p=positions[q.params.id];if(!p)return r.status(404).json({error:'Nie znaleziono pozycji'});delete positions[p.id];save();io.emit('positionClosed',p.id);
-  const c=p.price??p.entry,pl=(c-p.entry)/p.entry*100*(p.side==='LONG'?1:-1);botSay(p.bot,`Zamykam ${p.side} ${p.symbol} (${pl>=0?'+':''}${pl.toFixed(2)}%)`);r.json({closed:true,position:p,pnlPct:+pl.toFixed(4)});}
+  const c=p.price??p.entry,pl=(c-p.entry)/p.entry*100*(p.side==='LONG'?1:-1);botSay(p.bot,`Zamykam ${p.side} ${p.symbol} (${pl>=0?'+':''}${pl.toFixed(2)}%)`);bots.onPosition('close',p);r.json({closed:true,position:p,pnlPct:+pl.toFixed(4)});}
 app.delete('/api/positions/:id',auth,close);app.post('/api/positions/:id/close',auth,close);
 // live prices from Binance public ticker (every 30s); falls back to bot price
 async function refreshPrices(){const ps=Object.values(positions);if(!ps.length||process.env.LIVE_PRICES==='0')return;
@@ -73,13 +74,28 @@ const SOURCES=[
 async function refreshTop10(){if(process.env.TOP10_MOCK==='1'){top10={updatedAt:Date.now(),source:'mock',items:MOCK10};io.emit('top10',top10);return top10;}
   if(Date.now()<top10Backoff)return top10;const errs=[];
   for(const [name,fn] of SOURCES){try{const items=(await fn()).filter(i=>i.symbol&&isFinite(i.price)&&i.price>0).slice(0,10);if(items.length<5)throw new Error('za mało danych');
-    top10={updatedAt:Date.now(),source:name,items};io.emit('top10',top10);return top10;}catch(e){errs.push(name+': '+e.message);if(e.status===429&&name==='CoinGecko')console.log('CoinGecko 429 - używam zapasowego źródła');}}
+    top10={updatedAt:Date.now(),source:name,items};if(!deskTop10())io.emit('top10',top10);return top10;}catch(e){errs.push(name+': '+e.message);if(e.status===429&&name==='CoinGecko')console.log('CoinGecko 429 - używam zapasowego źródła');}}
   top10={...top10,error:'Nie udało się pobrać danych ('+errs.join('; ')+')'};top10Backoff=Date.now()+60000;console.log('Top10:',top10.error);io.emit('top10',top10);return top10;}
 setInterval(refreshTop10,TOP10_MS);setTimeout(refreshTop10,process.env.TOP10_MOCK==='1'?0:1500);
-app.get('/api/top10',(q,r)=>r.json(top10));
+// ---- Desk feed: /workspace/desk/board.json written by desk main.py (state.json + ledger) ----
+const DESK_BOARD=process.env.DESK_BOARD_FILE||'/workspace/desk/board.json';let desk=null,deskMtime=0;
+function deskPosition(){const p=desk&&desk.position;if(!p)return null;const hb=p.latest_heartbeat||{};const ref=p.entry_priceUSD??p.reference_priceUSD??null;
+  return {id:'desk-'+String(p.order_id).replace(/[^A-Za-z0-9_-]/g,''),desk:true,bot:'RISK',symbol:String(p.token),side:'LONG',size:p.ticket_usd,sizeUsd:p.ticket_usd,
+    entry:p.entry_priceUSD,ref:p.reference_priceUSD,refSource:p.reference_source,price:hb.priceUSD??null,priceTs:hb.ts||null,priceSource:'desk-heartbeat',
+    pnlBase:ref,movePct:p.move_vs_ref_pct,chain:p.chain,orderId:p.order_id,risk:p.risk_status,
+    note:`${p.chain} · order ${p.order_id} · entry ${p.entry_priceUSD??'brak'} · ref ${p.reference_priceUSD??'-'} · ${p.risk_status}`,openedAt:Date.parse(p.ts)||Date.now(),updatedAt:Date.parse(desk.updatedAt)||Date.now()};}
+const allPositions=()=>{const d=deskPosition();return d?[d,...Object.values(positions)]:Object.values(positions);};
+function deskTop10(){if(!desk||!Array.isArray(desk.top10)||!desk.top10.length)return null;
+  return {updatedAt:Date.parse(desk.top10_cycle_ts||desk.updatedAt)||Date.now(),source:'desk',rule:desk.top10_rule,
+    items:desk.top10.map((c,i)=>({rank:i+1,symbol:String(c.ticker),name:c.chain,chain:c.chain,price:c.priceUSD,marketCap:c.marketCap,liquidity:c.liquidity,change1h:c.change_1h,change24h:c.change_1h,stage:c.stage,reason:c.reason}))};}
+function readDesk(){try{const m=fs.statSync(DESK_BOARD).mtimeMs;if(m===deskMtime)return;deskMtime=m;desk=JSON.parse(fs.readFileSync(DESK_BOARD,'utf8'));
+  io.emit('positions',allPositions());const t=deskTop10();if(t)io.emit('top10',t);}catch{}}
+readDesk();setInterval(readDesk,15000);
+app.get('/api/top10',(q,r)=>r.json(deskTop10()||top10));
+app.get('/api/desk',(q,r)=>r.json(desk||{error:'brak board.json'}));
 io.on('connection',s=>{
-  s.emit('top10',top10);
-  s.emit('positions',Object.values(positions));
+  s.emit('top10',deskTop10()||top10);
+  s.emit('positions',allPositions());
   s.on('join',d=>{
     const p={id:s.id,name:clean(d&&d.name,16)||'Anon',color:COLORS.includes(d&&d.color)?d.color:COLORS[0],sprite:Math.max(0,Math.min(3,(d&&d.sprite)|0)),x:MAP.SPAWN.x,y:MAP.SPAWN.y,dir:'down'};
     p.zone=MAP.zoneAt(p.x,p.y);players[s.id]=p;

diff --git a/test.js b/test.js
@@ -6,7 +6,7 @@ a.emit('join',{name:'Alicja',color:'#00f0ff',sprite:1});await wait(200);b.emit('
 chk(got.a.some(([e,d])=>e=='playerJoined'&&d.name=='Bartek'),'A widzi dołączenie B');
 const M0=require('./public/map.js');const init=got.a.find(([e])=>e=='init')[1];const bots=Object.values(init.players).filter(p=>p.bot);
 chk(bots.length==7&&['CHIEF','SIZE','SCAN','BOOK','RISK','VET','FILLS'].every(n=>bots.some(b=>b.name==n)),'init zawiera 7 botów NPC oznaczonych bot:true');
-chk(M0.zoneAt(15*16,6*16)=='board','Strefa Tablica Pozycji (board) w Open Space');chk(bots.find(b=>b.name=='CHIEF').zone=='chief'&&bots.filter(b=>b.zone=='open').length==6,'CHIEF w gabinecie, 6 botów w Open Space');
+chk(M0.zoneAt(15*16,6*16)=='board','Strefa Tablica Pozycji (board) w Open Space');{const bl=await fetch(U+'/api/bots').then(r=>r.json());const hz=b=>M0.zoneAt(b.home[0]*16+8,b.home[1]*16+8);chk(bl.length==7&&hz(bl.find(b=>b.name=='CHIEF'))=='chief'&&bl.filter(b=>hz(b)=='open').length==6,'Biurka: CHIEF w gabinecie, 6 botów w Open Space (/api/bots)');}
 const M=require('./public/map.js');chk(M.zoneAt(14*16,13*16)=='open'&&M.zoneAt(33*16,5*16)=='chief'&&M.zoneAt(31*16,17*16)=='bathroom'&&M.zoneAt(15*16,23*16)=='social'&&M.ZONES.length==6&&!M.ZONES.some(z=>['trading','meeting','lounge','moon','bots'].includes(z.id)),'Nowe strefy (Open Space, Gabinet CHIEF, Łazienka, Social, Tablica, Top 10) rozpoznawane');
 a.emit('move',{x:240,y:216,dir:'right'});await wait(200);
 chk(got.b.some(([e,d])=>e=='playerMoved'&&d.id==a.id&&d.x==240),'B dostaje ruch A');
@@ -17,7 +17,6 @@ a.emit('chat',{text:'tajne',scope:'zone'});await wait(200);
 chk(got.a.some(([e,d])=>e=='chat'&&d.text=='tajne'&&d.zone=='board'),'A dostaje własną wiadomość strefową (Tablica Pozycji)');
 chk(!got.b.some(([e,d])=>e=='chat'&&d.text=='tajne'),'B (inna strefa) NIE dostaje wiadomości strefowej');
 await wait(4300);chk(got.a.some(([e,d])=>e=='bubble'&&String(d.id).startsWith('bot-')&&d.text),'Boty wysyłają dymki statusu');
-chk(!got.a.some(([e,d])=>e=='playerMoved'&&String(d.id).startsWith('bot-')),'Boty nie generują zdarzeń ruchu');
 // ---- API Tablicy Pozycji ----
 const TOK=process.env.BOT_API_TOKEN||require('fs').readFileSync(__dirname+'/.bot-token','utf8').trim();
 const api=(m,u,body,tok=TOK)=>fetch(U+u,{method:m,headers:{'content-type':'application/json',...(tok?{authorization:'Bearer '+tok}:{})},body:body?JSON.stringify(body):undefined}).then(async r=>({s:r.status,j:await r.json().catch(()=>null)}));
@@ -38,11 +37,27 @@ await api('POST','/api/positions',{id:'test-2',bot:'RISK',symbol:'TESTY',side:'S
 r=await api('DELETE','/api/positions/test-2');chk(r.s==404,'Ponowne zamknięcie -> 404');
 // ---- Top 10 (osobny serwer w trybie mock, bez sieci) ----
 const {spawn}=require('child_process');const os=require('os');
-const srv=spawn(process.execPath,[__dirname+'/server.js'],{env:{...process.env,PORT:'3999',TOP10_MOCK:'1',LIVE_PRICES:'0',BOT_API_TOKEN:'t',POSITIONS_FILE:os.tmpdir()+'/pos-test-'+process.pid+'.json'},stdio:'ignore'});
+const srv=spawn(process.execPath,[__dirname+'/server.js'],{env:{...process.env,PORT:'3999',TOP10_MOCK:'1',BOT_FAST:'1',DESK_BOARD_FILE:'/nonexistent/board.json',LIVE_PRICES:'0',BOT_API_TOKEN:'t',POSITIONS_FILE:os.tmpdir()+'/pos-test-'+process.pid+'.json'},stdio:'ignore'});
 try{let t10=null;for(let i=0;i<30&&!t10;i++){await wait(150);t10=await fetch('http://localhost:3999/api/top10').then(r=>r.json()).catch(()=>null);}
  chk(t10&&Array.isArray(t10.items)&&t10.items.length==10&&t10.updatedAt&&t10.source=='mock','GET /api/top10: 10 pozycji, updatedAt, source');
  chk(t10&&t10.items.every((c,i)=>c.rank==i+1&&typeof c.symbol=='string'&&typeof c.name=='string'&&c.price>0&&typeof c.change24h=='number'&&c.marketCap>0),'Kształt pozycji Top10 (rank, symbol, name, price, change24h, marketCap)');
  const c=io('http://localhost:3999');const ev=await new Promise(r=>{c.on('top10',r);setTimeout(()=>r(null),2000);});c.disconnect();
- chk(ev&&ev.items.length==10,'Socket.IO wysyła top10 po połączeniu');}finally{srv.kill();}
+ chk(ev&&ev.items.length==10,'Socket.IO wysyła top10 po połączeniu');
+ // ---- zachowanie botów (tryb BOT_FAST) ----
+ const M2=require('./public/map.js');const bc=io('http://localhost:3999');const mv=[],bub=[];bc.on('playerMoved',d=>{if(String(d.id).startsWith('bot-'))mv.push(d);});bc.on('bubble',d=>bub.push(d));await new Promise(r=>bc.on('connect',r));
+ const lst=()=>fetch('http://localhost:3999/api/bots').then(r=>r.json());
+ const tok={'content-type':'application/json',authorization:'Bearer t'};
+ await fetch('http://localhost:3999/api/positions',{method:'POST',headers:tok,body:JSON.stringify({id:'tb1',bot:'SCAN',symbol:'TESTB',side:'LONG',size:1,entry:10})});
+ let scanAtBoard=false,maxAway=0,left=new Set();for(let i=0;i<60;i++){await wait(250);const l=await lst();const aw=l.filter(b=>!b.atDesk);maxAway=Math.max(maxAway,aw.length);aw.forEach(b=>left.add(b.name));if(l.find(b=>b.name=='SCAN').zone=='board')scanAtBoard=true;}
+ chk(scanAtBoard,'Zdarzenie API: SCAN idzie do Tablicy Pozycji');
+ chk(bub.some(d=>d.id=='bot-RISK'&&/ekspozycj/i.test(d.text)),'RISK reaguje na otwarcie pozycji');
+ chk(mv.length>20,'Boty chodzą (zdarzenia ruchu: '+mv.length+')');
+ chk(mv.every(d=>M2.solid[Math.floor(d.y/16)][Math.floor(d.x/16)]===0),'Boty poruszają się tylko po wolnych kafelkach');
+ const byBot={};let jump=0;for(const d of mv){const pr=byBot[d.id];if(pr&&Math.hypot(d.x-pr.x,d.y-pr.y)>40)jump++;byBot[d.id]=d;}chk(jump==0,'Płynny ruch (brak teleportów)');
+ chk(maxAway<=4,'Ograniczona liczba botów poza biurkiem (max '+maxAway+')');
+ let allHome=false;for(let i=0;i<120&&!allHome;i++){await wait(250);const l=await lst();allHome=[...left].every(n=>{const b=l.find(x=>x.name==n);return b.atDesk||(b.tile[0]==b.home[0]&&b.tile[1]==b.home[1]);});}
+ chk(left.size>0&&allHome,'Boty wracają do biurek ('+[...left].join(',')+')');
+ const fin=await lst();chk(fin.length==7&&fin.every(b=>b.status&&M2.solid[b.tile[1]][b.tile[0]]===0),'Nadal 7 botów, każdy ze statusem');
+ bc.disconnect();}finally{srv.kill();}
 chk(require('./public/map.js').zoneAt(28*16,25.5*16)=='top10','Strefa Top 10 Krypto przy tablicy');
 b.disconnect();await wait(200);chk(got.a.some(([e])=>e=='playerLeft'),'A widzi wyjście B');a.disconnect();process.exit(ok?0:1);})();

diff --git a/README.md b/README.md
@@ -12,6 +12,9 @@ Czat strefowy działa we wszystkich strefach.
 ## Boty NPC
 Serwer wyświetla 7 botów grupy: CHIEF (we własnym gabinecie) oraz SIZE, SCAN, BOOK, RISK, VET, FILLS przy podpisanych biurkach. Każdy ma własny robotyczny sprite, animację w spoczynku i co kilka sekund dymek statusu (zdarzenie `bubble`). Na liście online są oznaczone jako [BOT]. Konfiguracja: `BOT_CFG` w `server.js`, pozycje: `BOT_DESKS` w `public/map.js`.
 
+## Życie biura (boty)
+Boty są sterowane przez serwer (`bots.js`): maszyna stanów + A* po siatce kafelków (ściany, meble, drzwi). Przy biurku piszą na klawiaturze (monitory migają, dymki „...”), a co jakiś czas idą na zadania: SCAN sprawdza Tablicę Pozycji i Top 10, RISK kontroluje biurka, FILLS nosi bilety do BOOK, BOOK odkłada dokumenty do szafy, VET chodzi z checklistą, SIZE idzie do tablicy, wszyscy raportują do CHIEF, a CHIEF robi obchód. Do tego kawa w Social, łazienka i krótkie rozmowy dwóch botów. Naraz poza biurkiem są maks. 2 boty (3 przy zdarzeniach). Otwarcie/zamknięcie pozycji przez API wysyła bota do tablicy, a RISK reaguje. Status bota widać po najechaniu myszką / podejściu i na liście online. `GET /api/bots` – stan botów. `BOT_FAST=1` – przyspieszenie (testy).
+
 ## Uruchomienie lokalnie
     npm install
     npm start            # http://localhost:3000  (obsługuje zmienną PORT)
